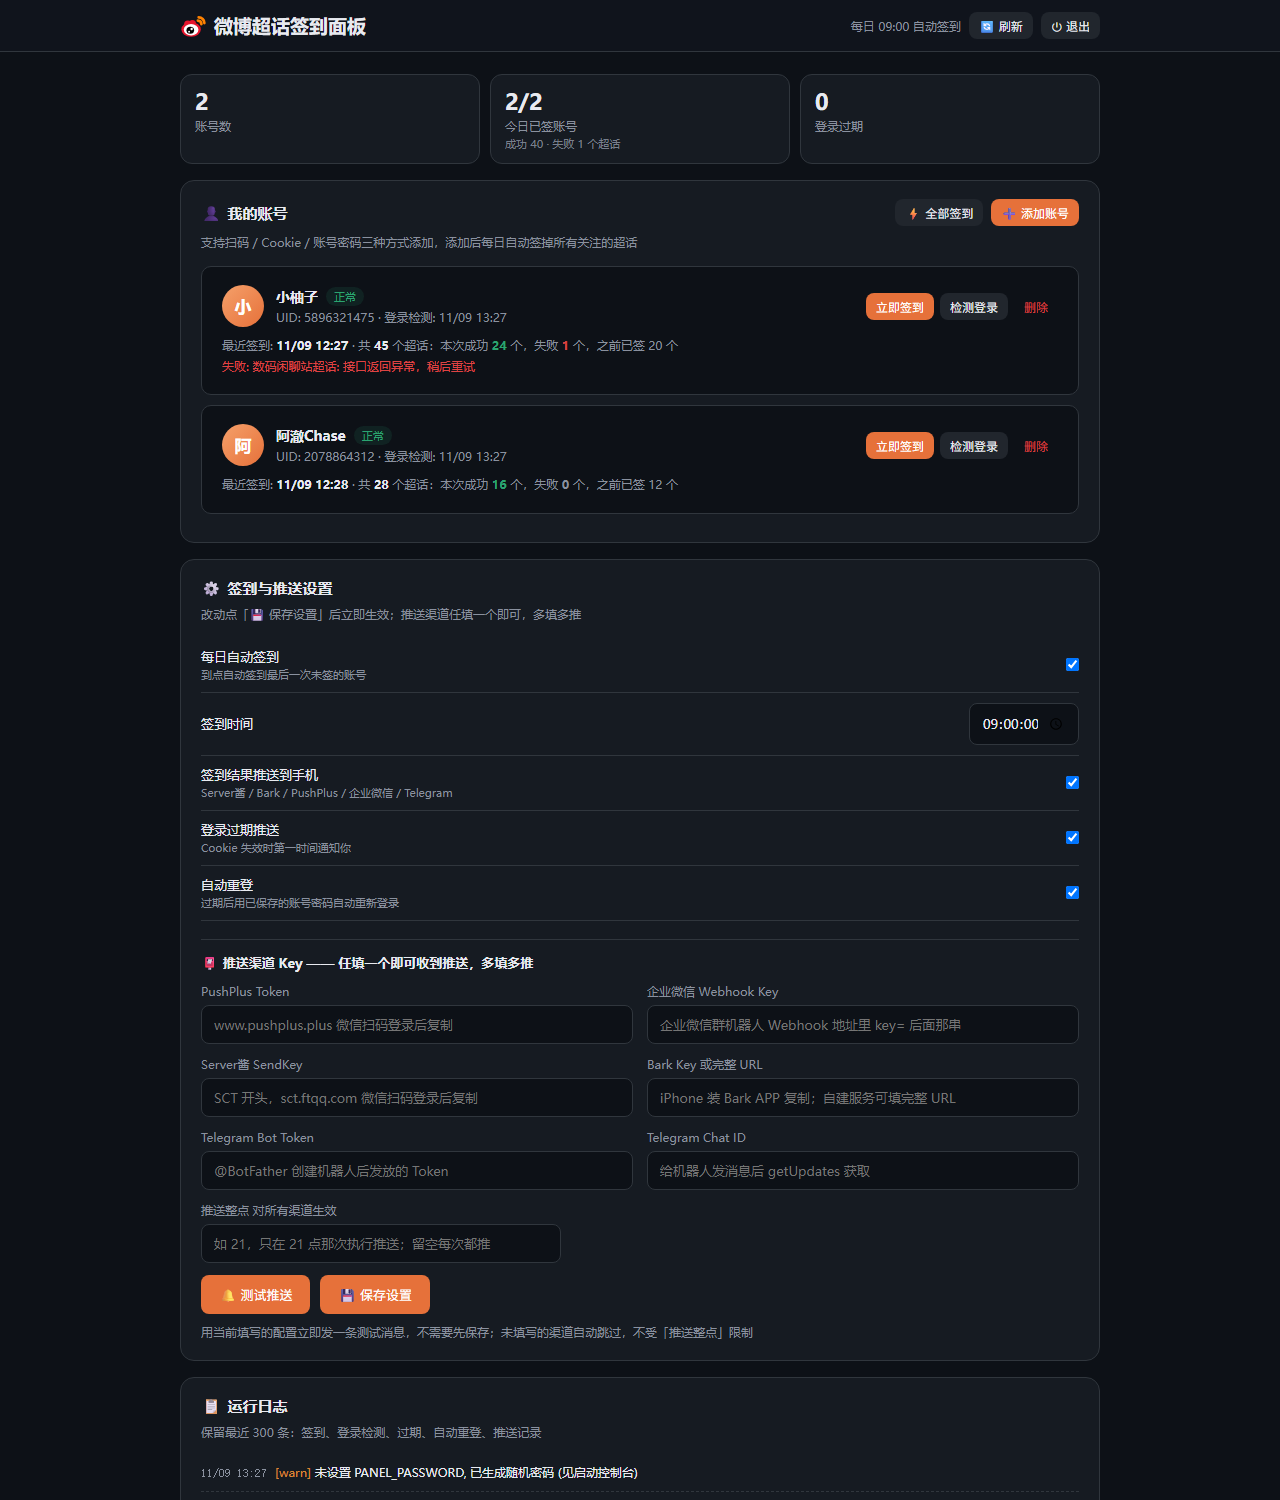
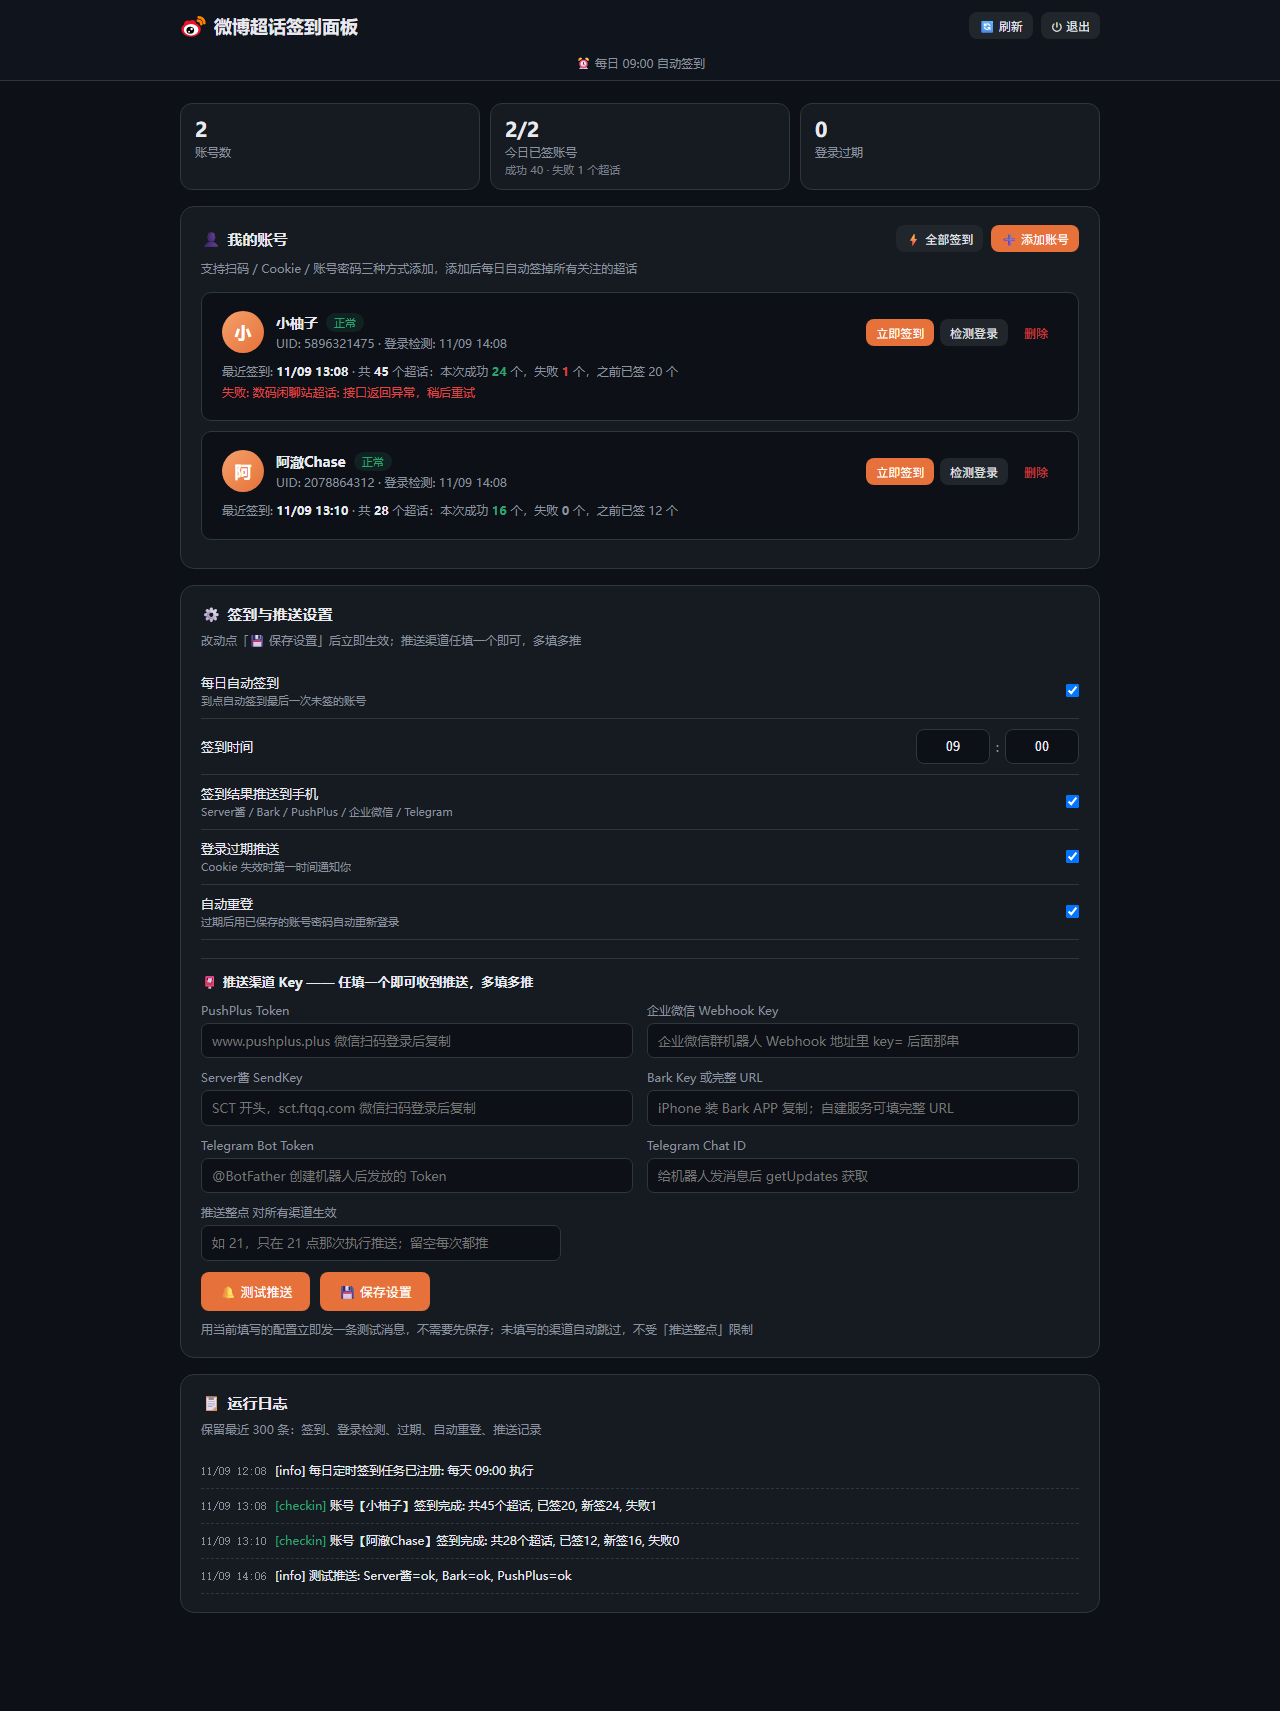
优化字号与顶栏布局，签到状态改为顶栏第二行
- 手机端输入框 16px → 14px、内边距收紧，修复占位提示被截断的观感问题
- 整体字号下调一档（标题、统计数字、按钮、日志）
- 「每日 HH:MM 自动签到」移到顶栏第二行，手机端也能看到
- 保存设置后顶栏立即更新，无需刷新页面
- 时间选择改为小时/分钟下拉框，彻底消除秒
- 长日志（推送报错 JSON）自动换行，不再撑破卡片
- 更新 docs 截图：桌面全页 + 手机全页（含运行日志区）

diff --git a/static/index.html b/static/index.html
@@ -2,7 +2,7 @@
 <html lang="zh-CN">
 <head>
 <meta charset="UTF-8">
-<meta name="viewport" content="width=device-width, initial-scale=1.0">
+<meta name="viewport" content="width=device-width, initial-scale=1.0, maximum-scale=1.0">
 <title>微博超话签到面板</title>
 <link rel="icon" type="image/svg+xml" href="/static/weibo.svg">
 <link rel="apple-touch-icon" href="/static/weibo.svg">
@@ -18,21 +18,22 @@
 }
 *{box-sizing:border-box;margin:0;padding:0}
 body{background:var(--bg);color:var(--text);font-family:-apple-system,"PingFang SC","Microsoft YaHei",sans-serif;
-  min-height:100vh;padding-bottom:60px}
+  min-height:100vh;padding-bottom:60px;overflow-x:hidden}
 /* 顶栏 */
 .topbar{position:sticky;top:0;z-index:40;background:var(--bar);border-bottom:1px solid var(--line)}
 .topbar-in{max-width:960px;margin:0 auto;padding:12px 20px;display:flex;align-items:center;
   justify-content:space-between;gap:10px}
-h1{font-size:19px;font-weight:700;display:flex;align-items:center;gap:8px}
+h1{font-size:18px;font-weight:700;display:flex;align-items:center;gap:8px}
 h1 .logo{display:inline-flex;align-items:center;flex-shrink:0}
 h1 .logo img{display:block}
 .top-right{display:flex;align-items:center;gap:8px;flex-wrap:wrap}
+.nextbar{max-width:960px;margin:0 auto;padding:0 20px 8px;text-align:center}
 .next-run{font-size:12px;color:var(--sub)}
 .wrap{max-width:960px;margin:0 auto;padding:22px 20px}
 .muted{color:var(--sub);font-size:12px}
 .stats{display:grid;grid-template-columns:repeat(3,1fr);gap:10px;margin-bottom:16px}
 .stat{background:var(--card);border:1px solid var(--line);border-radius:12px;padding:12px 14px}
-.stat .num{font-size:22px;font-weight:700}
+.stat .num{font-size:20px;font-weight:700}
 .stat .label{font-size:12px;color:var(--sub);margin-top:2px}
 .stat .sub{font-size:11px;color:var(--sub);margin-top:2px;min-height:14px;opacity:.85}
 .card{background:var(--card);border:1px solid var(--line);border-radius:14px;padding:18px 20px;margin-bottom:16px}
@@ -57,7 +58,7 @@ h1 .logo img{display:block}
 .badge.expired{background:rgba(221,68,68,.12);color:var(--bad)}
 .badge.pwd{background:rgba(217,134,52,.14);color:var(--warn)}
 .acc-ops{display:flex;gap:6px;flex-wrap:wrap}
-.result-line{font-size:12px;color:var(--sub);margin-top:8px;line-height:1.7}
+.result-line{font-size:12px;color:var(--sub);margin-top:8px;line-height:1.7;overflow-wrap:anywhere}
 .result-line b{color:var(--text)}
 .empty{text-align:center;color:var(--sub);font-size:13px;padding:30px 0}
 /* modal */
@@ -76,11 +77,11 @@ h1 .logo img{display:block}
 .qr-status.scanned{color:var(--warn)}
 .qr-status.confirmed{color:var(--ok)}
 textarea,input[type=text],input[type=password],input[type=time]{
-  width:100%;background:var(--bg);border:1px solid var(--line);border-radius:8px;
-  padding:10px 12px;color:var(--text);font-size:13px;outline:none;font-family:inherit}
-textarea{height:90px;resize:vertical}
-.field{margin-bottom:12px}
-.field label{display:block;font-size:12px;color:var(--sub);margin-bottom:6px}
+  width:100%;background:var(--bg);border:1px solid var(--line);border-radius:7px;
+  padding:7px 10px;color:var(--text);font-size:13px;line-height:1.5;outline:none;font-family:inherit}
+textarea{height:84px;resize:vertical}
+.field{margin-bottom:11px}
+.field label{display:block;font-size:12px;color:var(--sub);margin-bottom:5px}
 .checkbox-row{display:flex;align-items:center;gap:8px;font-size:13px;margin-bottom:12px}
 .hint{font-size:12px;color:var(--sub);line-height:1.7;margin-bottom:10px}
 /* settings */
@@ -89,15 +90,23 @@ textarea{height:90px;resize:vertical}
 .set-row:last-child{border-bottom:none}
 .set-row .lab{font-size:13px}
 .set-row .lab small{display:block;color:var(--sub);font-size:11px;margin-top:2px}
-input[type=time]{width:110px}
+/* 时间选择: 小时 + 分钟下拉, 避免原生控件显示秒 */
+.time-pick{display:flex;align-items:center;gap:6px;flex-shrink:0}
+.time-pick select{width:74px;background:var(--bg);border:1px solid var(--line);border-radius:8px;
+  padding:9px 6px;color:var(--text);font-size:13px;outline:none;text-align:center;
+  -webkit-appearance:none;appearance:none}
+.time-pick .colon{color:var(--sub);font-size:13px}
 .push-title{font-size:12px;color:var(--sub);margin:12px 0 8px;padding-top:10px;border-top:1px solid var(--line)}
 .push-title{font-size:13px;color:var(--text);font-weight:600;margin:18px 0 12px;
   padding-top:14px;border-top:1px solid var(--line)}
-.push-grid{display:grid;grid-template-columns:1fr 1fr;gap:0 14px}
+.push-grid{display:grid;grid-template-columns:minmax(0,1fr) minmax(0,1fr);gap:0 14px}
+.push-grid .field{min-width:0}
+.push-grid input{max-width:100%}
 @media (max-width:620px){.push-grid{grid-template-columns:1fr}}
 .test-hint{font-size:12px;color:var(--sub);margin-top:8px;line-height:1.7}
 /* logs */
-.log-item{font-size:12px;padding:7px 0;border-bottom:1px dashed var(--line);line-height:1.6}
+.log-item{font-size:12px;padding:7px 0;border-bottom:1px dashed var(--line);line-height:1.6;
+  word-break:break-all;overflow-wrap:anywhere}
 .log-item .t{color:var(--sub);margin-right:8px;font-family:ui-monospace,monospace}
 .k-checkin{color:var(--ok)} .k-error,.k-expired{color:var(--bad)} .k-warn{color:var(--warn)}
 /* toast */
@@ -107,26 +116,31 @@ input[type=time]{width:110px}
 #toast.show{opacity:.95}
 /* 移动端适配 */
 @media (max-width:620px){
-  .topbar-in{padding:10px 12px}
-  h1{font-size:16px}
-  h1 .logo img{width:22px;height:22px}
-  .next-run{display:none}
-  .wrap{padding:14px 12px}
+  .topbar-in{padding:9px 12px}
+  h1{font-size:15px}
+  h1 .logo img{width:21px;height:21px}
+  .nextbar{padding:0 12px 7px}
+  .next-run{font-size:11px}
+  .wrap{padding:12px 10px}
   .stats{gap:8px}
-  .stat{padding:10px 8px;border-radius:10px}
-  .stat .num{font-size:18px}
-  .card{padding:14px 12px;border-radius:12px;margin-bottom:12px}
-  .sec-hint{margin-bottom:12px}
-  .acc{gap:10px}
-  .avatar{width:38px;height:38px;font-size:15px}
-  .acc-info{min-width:110px}
+  .stat{padding:9px 8px;border-radius:10px}
+  .stat .num{font-size:17px}
+  .card{padding:13px 11px;border-radius:12px;margin-bottom:11px}
+  .sec-title h2{font-size:14px}
+  .sec-hint{margin-bottom:11px}
+  .acc{gap:9px}
+  .avatar{width:34px;height:34px;font-size:14px}
+  .acc-name{font-size:13px}
+  .acc-info{min-width:104px}
   .acc-ops{width:100%}
-  .acc-ops .btn{flex:1;padding:7px 6px;text-align:center}
-  .modal{padding:16px;border-radius:14px}
-  /* 16px 以上避免 iOS 聚焦自动放大 */
-  input,textarea{font-size:16px !important}
-  input[type=time]{width:110px}
+  .acc-ops .btn{flex:1;padding:6px 6px;text-align:center;font-size:12px}
+  .modal{padding:15px;border-radius:14px}
+  /* 紧凑字号: 配合 viewport maximum-scale 避免 iOS 聚焦放大 */
+  input,textarea{font-size:14px !important}
   .set-row .lab{font-size:12px}
+  .btn{font-size:12.5px;padding:7px 13px}
+  .btn.sm{padding:5px 9px;font-size:11.5px}
+  .log-item{font-size:11.5px}
 }
 @media (max-width:380px){
   .stats{grid-template-columns:repeat(3,1fr)}
@@ -139,11 +153,11 @@ input[type=time]{width:110px}
   <div class="topbar-in">
     <h1><img class="logo" src="/static/weibo.svg" alt="微博" width="26" height="26">微博超话签到面板</h1>
     <div class="top-right">
-      <span class="next-run" id="next-run"></span>
       <button class="btn sm" onclick="loadAll()">🔄 刷新</button>
       <button class="btn sm" onclick="logout()">⏻ 退出</button>
     </div>
   </div>
+  <div class="nextbar"><span class="next-run" id="next-run"></span></div>
 </div>
 
 <div class="wrap">
@@ -174,7 +188,11 @@ input[type=time]{width:110px}
     </div>
     <div class="set-row">
       <div class="lab">签到时间</div>
-      <input type="time" id="set-time">
+      <div class="time-pick">
+        <select id="set-time-h" aria-label="小时"></select>
+        <span class="colon">:</span>
+        <select id="set-time-m" aria-label="分钟"></select>
+      </div>
     </div>
     <div class="set-row">
       <div class="lab">签到结果推送到手机<small>Server酱 / Bark / PushPlus / 企业微信 / Telegram</small></div>
@@ -464,12 +482,23 @@ async function loginPassword(){
 }
 
 /* ---------------- 设置 ---------------- */
+function fillTimeOptions(){
+  const h = $('#set-time-h'), m = $('#set-time-m');
+  if(h.options.length) return;
+  const pad = n => String(n).padStart(2, '0');
+  for(let i = 0; i < 24; i++) h.add(new Option(pad(i), pad(i)));
+  for(let i = 0; i < 60; i++) m.add(new Option(pad(i), pad(i)));
+}
+
 async function loadSettings(){
   try{
     const j = await api('/api/settings');
     const s = j.settings, p = s.push;
+    fillTimeOptions();
     $('#set-daily').checked = s.enable_daily;
-    $('#set-time').value = s.checkin_time;
+    const t = String(s.checkin_time || '09:00').slice(0, 5).split(':');
+    $('#set-time-h').value = t[0] || '09';
+    $('#set-time-m').value = t[1] || '00';
     $('#set-push-checkin').checked = s.push_on_checkin;
     $('#set-push-expired').checked = s.push_on_expired;
     $('#set-relogin').checked = s.auto_relogin;
@@ -480,17 +509,25 @@ async function loadSettings(){
     $('#push-tg-token').value = p.tg_bot_token || '';
     $('#push-tg-chat').value = p.tg_chat_id || '';
     $('#set-push-hour').value = s.push_hour || '';
-    const nr = $('#next-run');
-    nr.textContent = s.enable_daily ? '每日 ' + s.checkin_time + ' 自动签到' : '自动签到已关闭';
+    updateNextRun(s);
   }catch(e){}
+}
+
+function updateNextRun(s){
+  const nr = $('#next-run');
+  if(!nr) return;
+  let t = s.enable_daily ? '⏰ 每日 ' + String(s.checkin_time).slice(0,5) + ' 自动签到' : '⏸ 自动签到已关闭';
+  const ph = String(s.push_hour || '').trim();
+  if (s.push_on_checkin && ph !== '' && !isNaN(+ph)) t += ' · ' + ph + ' 点推送';
+  nr.textContent = t;
 }
 
 async function saveSettings(){
   const s = (s)=>!!$('#'+s).checked;
   try{
-    await api('/api/settings', {method:'POST', body:JSON.stringify({
+    const j = await api('/api/settings', {method:'POST', body:JSON.stringify({
       enable_daily: s('set-daily'),
-      checkin_time: ($('#set-time').value || '09:00').slice(0, 5),
+      checkin_time: ($('#set-time-h').value || '09') + ':' + ($('#set-time-m').value || '00'),
       push_on_checkin: s('set-push-checkin'),
       push_on_expired: s('set-push-expired'),
       auto_relogin: s('set-relogin'),
@@ -504,6 +541,7 @@ async function saveSettings(){
       },
       push_hour: $('#set-push-hour').value.trim()
     })});
+    if (j && j.settings) updateNextRun(j.settings);   // 顶栏立即更新, 无需刷新
     toast('设置已保存');
   }catch(e){ toast('保存失败: '+e.message); }
   loadStats();
@@ -529,6 +567,20 @@ async function testPush(){
 
 loadAll();
 setInterval(loadStats, 30000);
+
+/* 手机端换用短 placeholder, 避免长提示语在窄输入框里被截断 */
+if (window.matchMedia('(max-width: 620px)').matches){
+  const SHORT = {
+    'push-pushplus':   'pushplus.plus 微信登录后复制',
+    'push-wecom':      '企业微信群机器人 Webhook 的 key= 值',
+    'push-serverchan': 'SCT 开头, sct.ftqq.com 获取',
+    'push-bark':       'iPhone 装 Bark APP 复制',
+    'push-tg-token':   '@BotFather 创建机器人获取',
+    'push-tg-chat':    '给机器人发消息后 getUpdates 获取',
+    'set-push-hour':   '如 21; 留空每次都推',
+  };
+  for (const id in SHORT){ const el = document.getElementById(id); if (el) el.placeholder = SHORT[id]; }
+}
 </script>
 </body>
 </html>

diff --git a/app.py b/app.py
@@ -497,8 +497,13 @@ def api_push_test(body: PushTestBody = None):
     results = notifier.push("微博签到面板·测试推送",
                             "这是一条测试消息。收到即说明该渠道配置成功 ✓\n\n"
                             "之后签到完成和登录过期提醒都会推送到这里。", cfg=cfg)
+    def _brief(r: str) -> str:
+        """渠道返回的错误可能是一大段 JSON, 日志里只保留可读摘要。"""
+        r = " ".join(str(r).split())
+        return r if len(r) <= 60 else r[:60] + "…"
+
     store.append_log("info", "测试推送: %s" %
-                     (", ".join("%s=%s" % (n, r) for n, r in results) or "无"))
+                     (", ".join("%s=%s" % (n, _brief(r)) for n, r in results) or "无"))
     return {"ok": True, "results": results}
 
 
